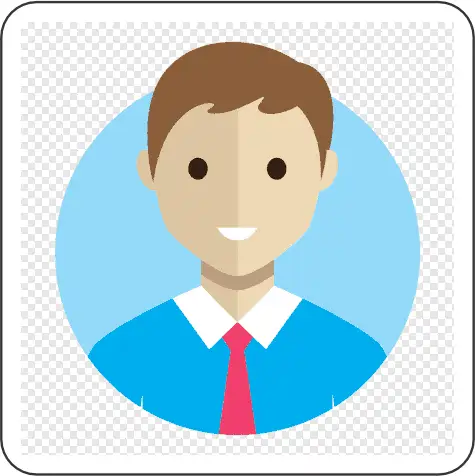
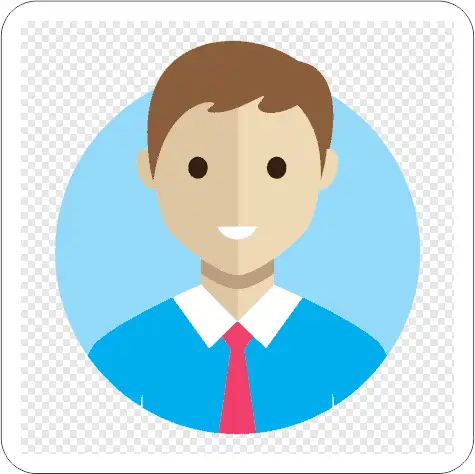
Sweet Alert implemented - employees added - services added - pictures were improved

diff --git a/js/data.js b/js/data.js
@@ -135,6 +135,54 @@ const EMPLEADOS = [
 		'SI',
 		'employee7.webp'
 	),
+	new Empleado(
+		'8',
+		'20-88888888-7',
+		'88888888',
+		'DELSERI',
+		'CRISTIAN',
+		'VIGILADOR',
+		'ACTIVO',
+		'1993-04-17',
+		'2007-17-03',
+		'',
+		'cdelseri@gmail.com',
+		'1234567890123456789012',
+		'SI',
+		'employee8.webp'
+	),
+	new Empleado(
+		'9',
+		'20-99999999-7',
+		'99999999',
+		'ECHENIQUE',
+		'ALFONSO',
+		'VIGILADOR',
+		'ACTIVO',
+		'1990-08-17',
+		'2020-01-03',
+		'',
+		'echeniquealfonso@gmail.com',
+		'1234567890123456789012',
+		'NO',
+		'employee9.webp'
+	),
+	new Empleado(
+		'10',
+		'27-10101101-7',
+		'10101101',
+		'RAMONDA',
+		'CONSTANZA',
+		'VIGILADOR',
+		'ACTIVO',
+		'1996-09-11',
+		'2023-01-03',
+		'',
+		'cotiramonda@gmail.com',
+		'1234567890123456789012',
+		'NO',
+		'employee10.webp'
+	),
 ];
 /**FIN CREO ARRAY DE EMPLEADOS ---------------------------------- */
 
@@ -154,6 +202,35 @@ const COBERTURAS = [
 	new Cobertura('11', '2024', '02', '55555555', 208, 0, 0),
 	new Cobertura('12', '2024', '02', '66666666', 200, 0, 0),
 	new Cobertura('13', '2024', '02', '77777777', 220, 1, 100),
+	new Cobertura('14', '2024', '02', '88888888', 200, 0, 0),
+	new Cobertura('15', '2024', '02', '99999999', 220, 1, 100),
+	new Cobertura('16', '2024', '03', '11111111', 232, 0, 0),
+	new Cobertura('17', '2024', '03', '22222222', 232, 1, 75),
+	new Cobertura('18', '2024', '03', '33333333', 208, 1, 100),
+	new Cobertura('19', '2024', '03', '44444444', 216, 0, 0),
+	new Cobertura('20', '2024', '03', '55555555', 208, 1, 0),
+	new Cobertura('21', '2024', '03', '66666666', 200, 0, 0),
+	new Cobertura('22', '2024', '03', '77777777', 220, 1, 100),
+	new Cobertura('23', '2024', '03', '88888888', 200, 0, 0),
+	new Cobertura('24', '2024', '03', '99999999', 220, 1, 100),
+	new Cobertura('25', '2024', '03', '10101101', 220, 1, 100),
+	new Cobertura('26', '2024', '04', '11111111', 232, 0, 0),
+	new Cobertura('27', '2024', '04', '22222222', 232, 1, 75),
+	new Cobertura('28', '2024', '04', '33333333', 208, 1, 100),
+	new Cobertura('29', '2024', '04', '44444444', 216, 0, 0),
+	new Cobertura('30', '2024', '04', '55555555', 208, 1, 0),
+	new Cobertura('31', '2024', '04', '66666666', 200, 0, 0),
+	new Cobertura('32', '2024', '04', '77777777', 220, 1, 100),
+	new Cobertura('33', '2024', '04', '88888888', 200, 0, 0),
+	new Cobertura('34', '2024', '04', '99999999', 220, 1, 100),
+	new Cobertura('35', '2024', '04', '10101101', 220, 1, 100),
+	new Cobertura('36', '2024', '05', '11111111', 232, 0, 0),
+	new Cobertura('37', '2024', '05', '33333333', 208, 1, 100),
+	new Cobertura('38', '2024', '05', '44444444', 216, 0, 0),
+	new Cobertura('39', '2024', '05', '55555555', 208, 1, 0),
+	new Cobertura('40', '2024', '05', '77777777', 220, 1, 100),
+	new Cobertura('41', '2024', '05', '88888888', 200, 0, 0),
+	new Cobertura('42', '2024', '05', '10101101', 220, 1, 100),
 ];
 /**FIN CREO ARRAY DE COBERTURAS ---------------------------------- */
 

diff --git a/pages/recibos.html b/pages/recibos.html
@@ -23,6 +23,13 @@
 		/>
 		<!-- End BS 5.3.3 -------------------------------------------------->
 
+		<!-- Start SwetAlert ------------------------------------------------>
+		<link
+			href="https://cdn.jsdelivr.net/npm/sweetalert2@11.12.0/dist/sweetalert2.min.css"
+			rel="stylesheet"
+		/>
+		<!-- End SwetAlert-------------------------------------------------->
+
 		<!-- Start FONT AWESOME -------------------------------------------->
 		<link
 			rel="stylesheet"
@@ -354,6 +361,10 @@
 		<!-- End BS 5.3.3 scripts -------------------------------------------------->
 
 		<script src="https://cdnjs.cloudflare.com/ajax/libs/html2pdf.js/0.9.2/html2pdf.bundle.min.js"></script>
+
+		<!-- Start Swet Alerts scripts ------------------------------------------------>
+		<script src="https://cdn.jsdelivr.net/npm/sweetalert2@11.12.0/dist/sweetalert2.all.min.js"></script>
+		<!-- End Swet Alerts scripts ------------------------------------------------>
 
 		<!-- Start local scripts ------------------------------------------------>
 		<script type="module" src="../js/recibos.js"></script>

diff --git a/js/functions.js b/js/functions.js
@@ -313,6 +313,15 @@ const renderizaEmpleados = (mes, ano) => {
 
 	let datosRecibos = []; //en este array estarán los datos de cada recibo - resultado de unir COBERTURAS Y EMPLEADOS
 
+	if (!COBERTURAS.some((cobertura) => cobertura.ano === ano && cobertura.mes === mes)) {
+		Swal.fire({
+			icon: 'warning',
+			title: 'Oops...',
+			text: 'No existen coberturas para el período seleccionado',
+		});
+		return;
+	}
+
 	//recorro el array de coberturas, operando sobre las que correspondan al mes y año ingresados
 	COBERTURAS.forEach((coberturaElemento) => {
 		if (coberturaElemento.mes === mes && coberturaElemento.ano === ano) {
